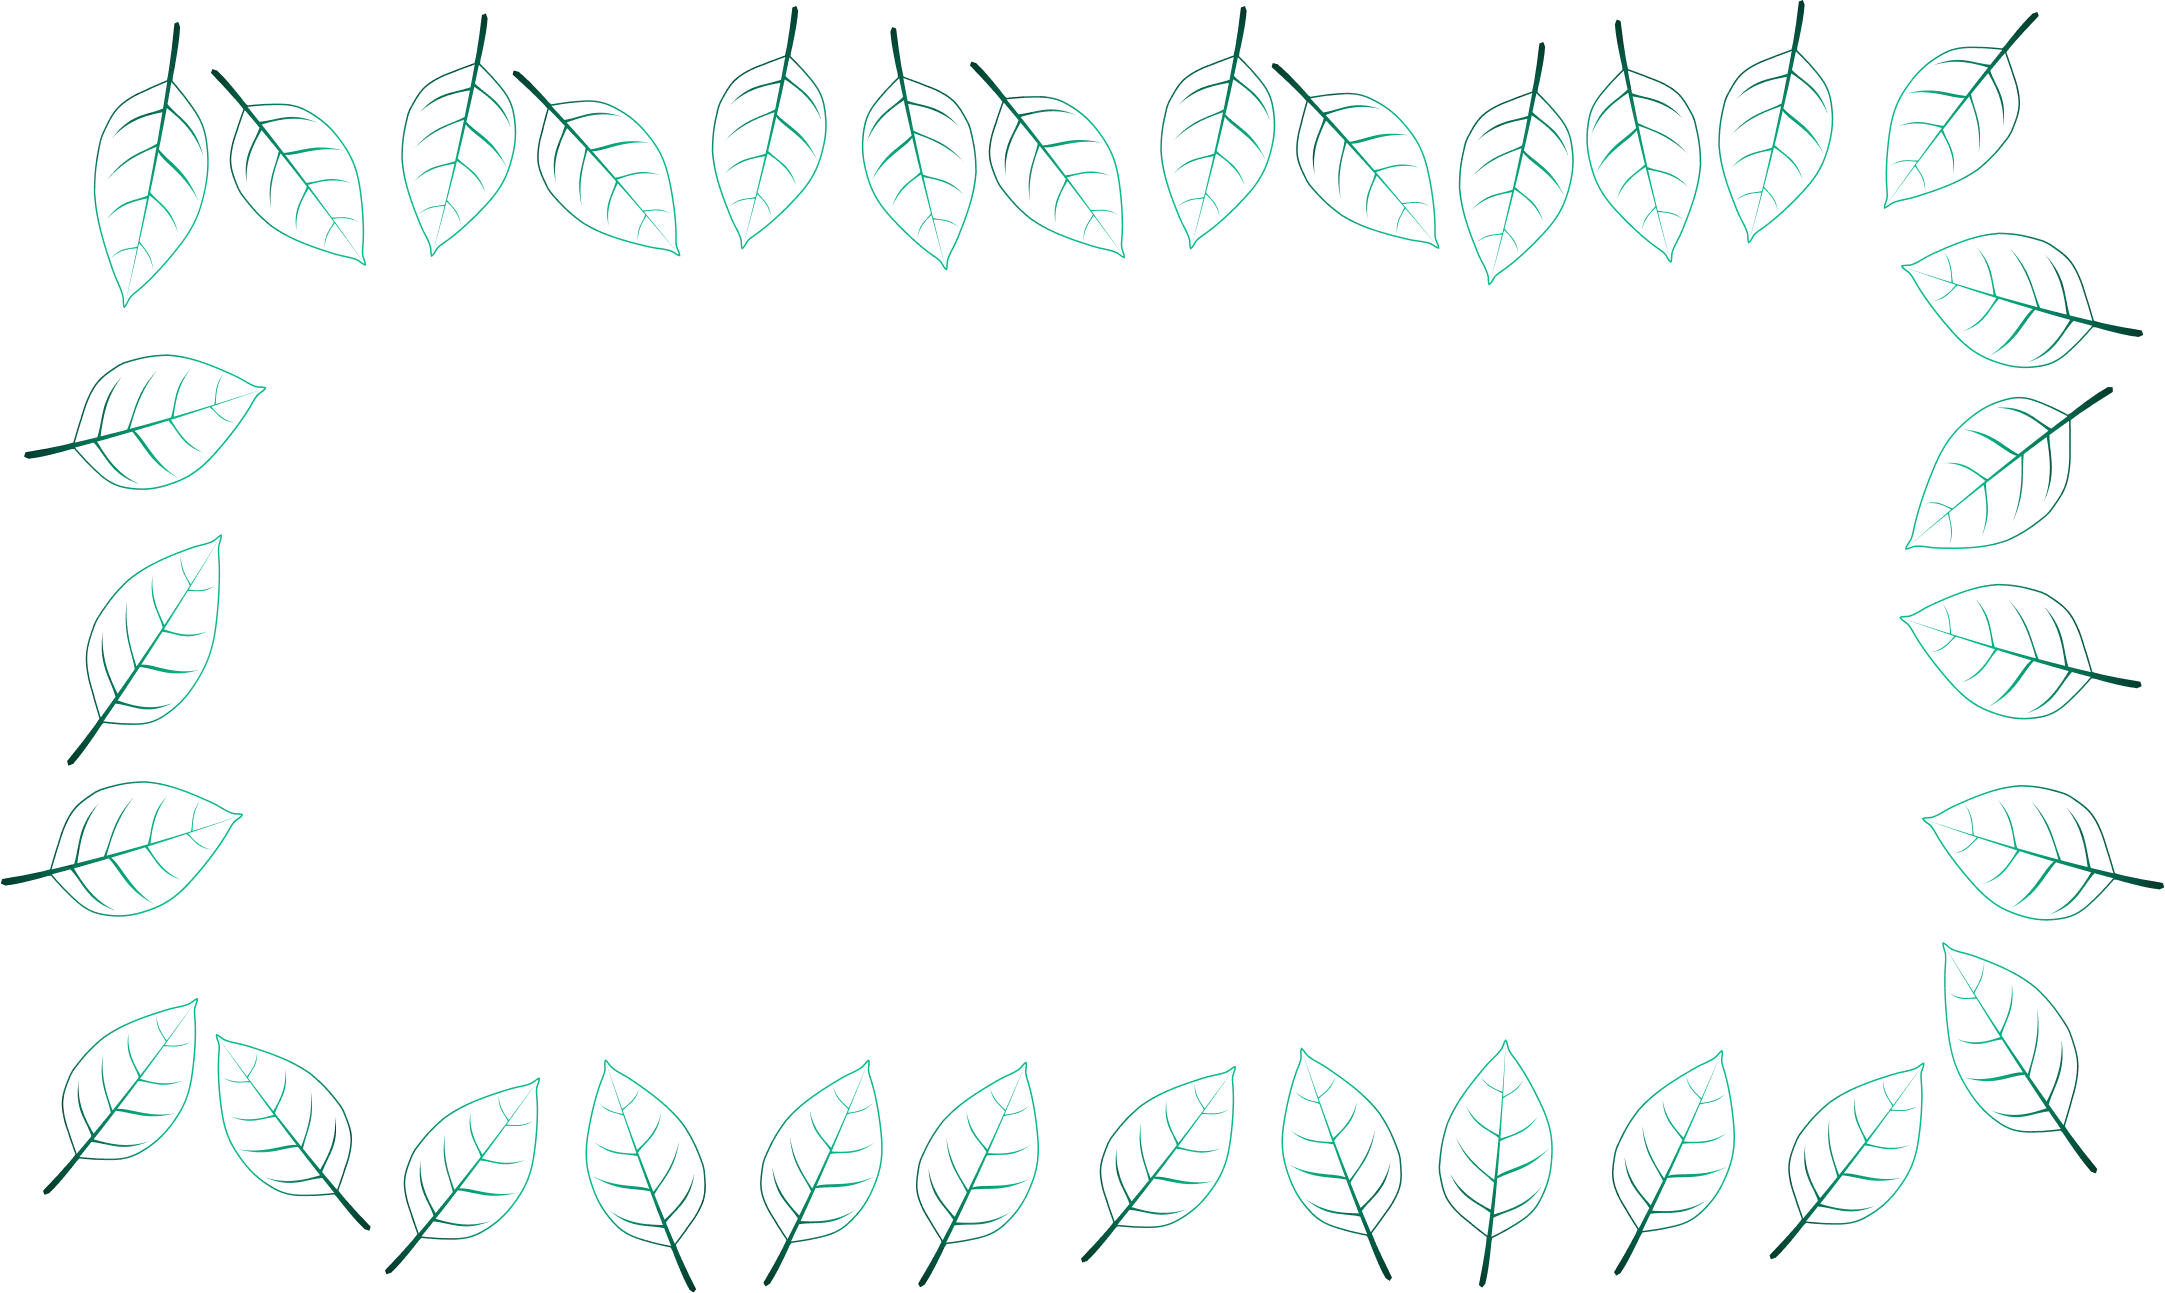
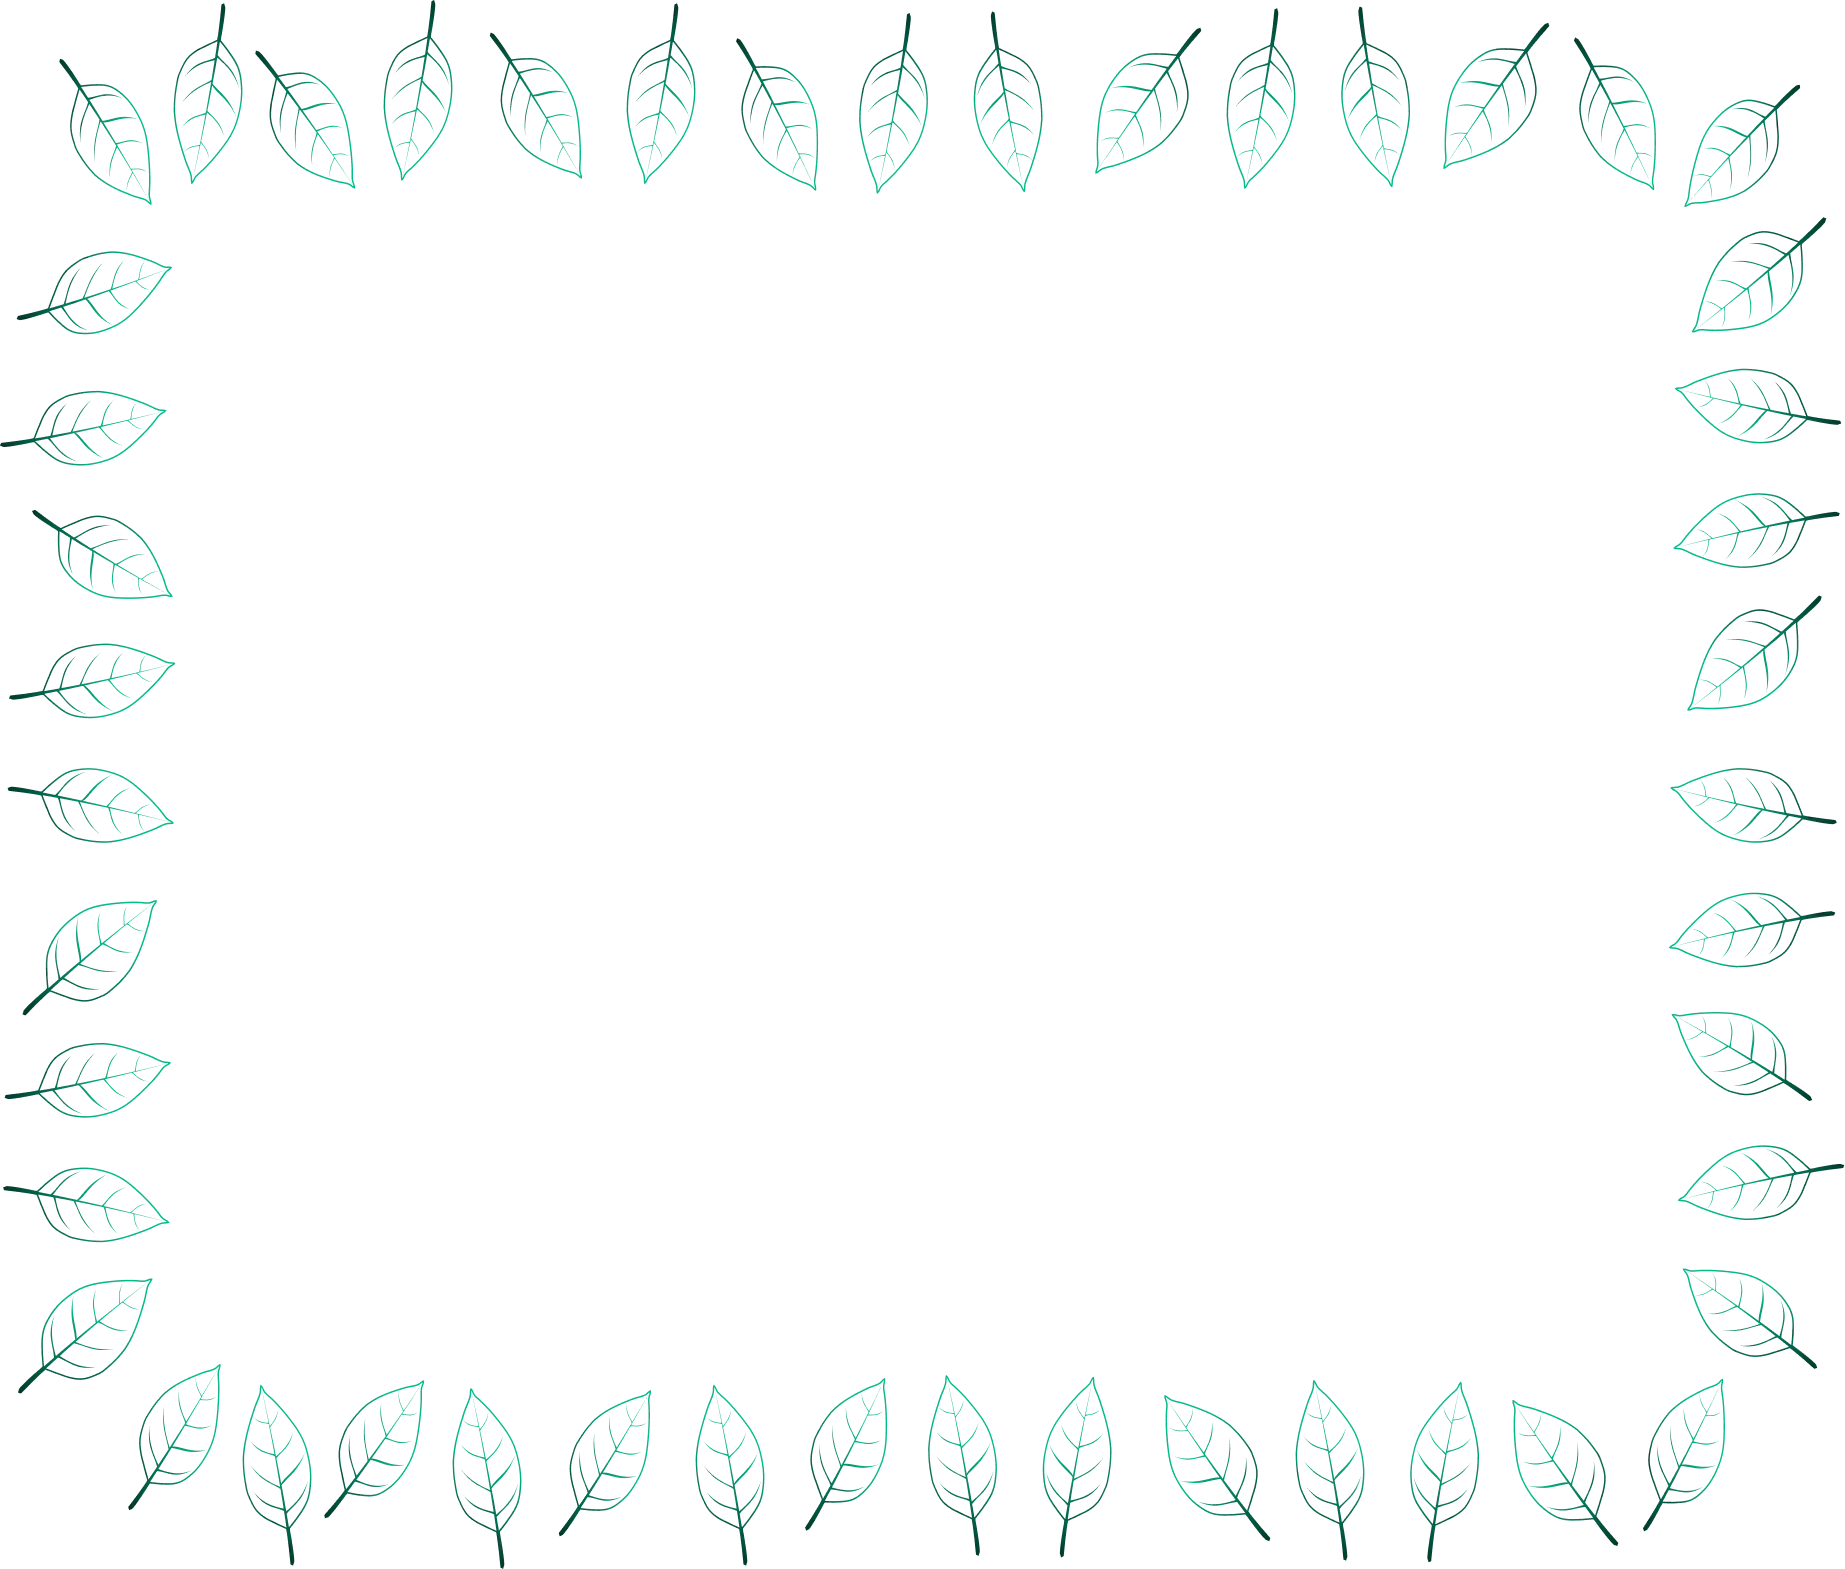
created desctop rules

diff --git a/public/css/rules.css b/public/css/rules.css
@@ -8,7 +8,7 @@
 
     border-radius: 30px;       
     background: no-repeat url(../img/rules-card-leafs.webp), linear-gradient(180deg, #7775B6 0%, #494694 69.79%);      
-    background-size: 112% auto;    
+    background-size: 112% 113%;    
     background-position:center;
     
     box-shadow: 0px 0px 20px 8px #FFF;
